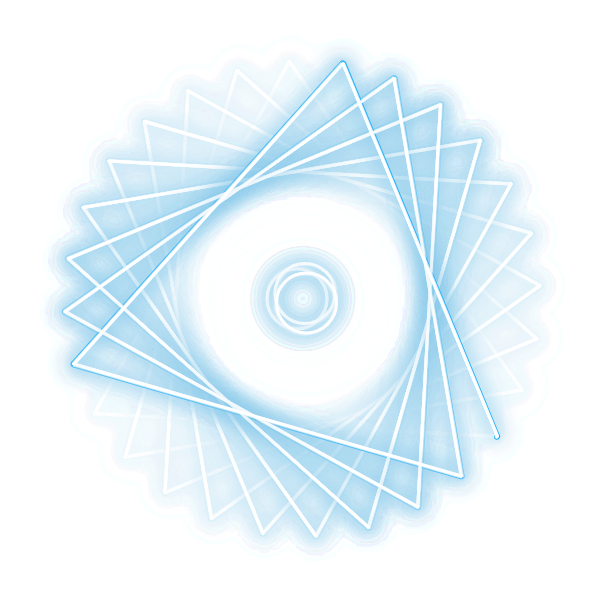
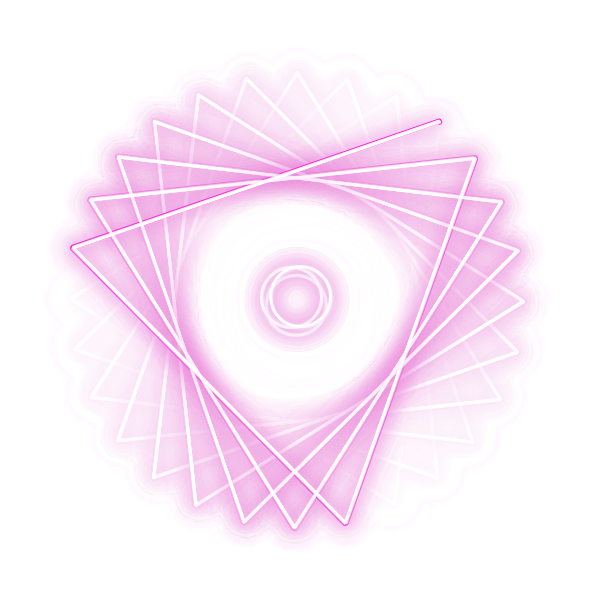
adding ui stuff

diff --git a/src/pot.js b/src/pot.js
@@ -1,4 +1,5 @@
 import * as recipe from './recipe.js';
+import * as ui from './ui.js'
 
 let canvas = document.getElementById('canvas');
 let ctx = canvas.getContext("2d");
@@ -74,16 +75,15 @@ function gameOver() {
 }
 
 function checkWin() {
-    let dLength = Math.abs(targetPotion.length / length);
-    let dRad = Math.abs(targetPotion.rad / rad);
-    let dCornerAngle = Math.abs(targetPotion.cornerAngle / cornerAngle);
+    let dLength = Math.abs(length / targetPotion.length);
+    let dRad = Math.abs(rad / targetPotion.rad);
+    let dCornerAngle = Math.abs(cornerAngle / targetPotion.cornerAngle);
 
-    // console.log(dLength, dRad, dCornerAngle);
+    fade = 1.1 - (dLength + dRad + dCornerAngle) / 3;
 
-    fade = 1.05 - 3 / (dLength + dRad + dCornerAngle);
-    // console.log(fade)
-
-    return (dLength + dRad + dCornerAngle < 20);
+    if (dLength + dRad + dCornerAngle > 2.9) {
+        ui.win();
+    }
 }
 
 export function restart() {
@@ -92,7 +92,7 @@ export function restart() {
     y = startY;
 
     angle = 0;
-    color = 200;
+    color = 310;
     fade = 0.07;
 
     length = 5;
@@ -112,6 +112,8 @@ export function restart() {
     flashColor("white");
 
     recipe.restart();
+
+    ui.restart();
 }
 
 function resetCam() {

diff --git a/dist/index.html b/dist/index.html
@@ -22,8 +22,13 @@
 <body>
     <div class="main">
         <canvas id="canvas" width="600" height="600"></canvas>
-        <div class="target">
-            <img src="../assets/target-potion.png">
+        <div id="ui">
+            <div id="target">
+
+            </div>
+            <div id="msg">
+
+            </div>
         </div>
         <div id="recipe" class="recipe">
 
@@ -60,6 +65,7 @@
         }
 
         .main {
+            position: relative;
             width: 100%;
             display: inline-flex;
             flex-direction: column;

diff --git a/src/style.css b/src/style.css
@@ -148,7 +148,7 @@ label {
 }
 
 .controls{
-  display: inline-block;
+  display: none;
   position: absolute;
   max-width: 300px;
   background: #202020;
@@ -265,4 +265,26 @@ label {
 }
 #recipe > .green {
   background: #23ef29;
+}
+
+#ui {
+  position: absolute;
+  left: 0;
+  width: 100%;
+  height: 100%;
+}
+
+#target {
+  position: absolute;
+  width: 50px;
+  height: 50px;
+  background-size: contain;
+  transition: width 200ms, height 200ms;
+  opacity: 0.5;
+}
+
+#target:hover{
+  width: 250px;
+  height: 250px;
+  opacity: 1;
 }

diff --git a/src/ui.js b/src/ui.js
@@ -1,0 +1,17 @@
+let msg = document.getElementById('msg');
+let ui = document.getElementById('ui');
+let canvas = document.getElementById('canvas');
+
+function init() {
+    ui.style.width = canvas.clientWidth + "px";
+    ui.style.height = canvas.clientHeight + "px";
+}
+export function win() {
+    msg.innerHTML = '<i class="fas fa-heart"></i>';
+}
+
+export function restart() {
+    msg.innerHTML = '';
+}
+
+window.addEventListener('load', init);

diff --git a/src/main.js b/src/main.js
@@ -1,5 +1,6 @@
 import * as pot from './pot.js';
 import * as recipe from './recipe.js';
+import * as target from './target.js';
 import './style.css';
 
 function setSegLength(e) {

diff --git a/src/target.js b/src/target.js
@@ -1,0 +1,4 @@
+import targetImg from '../assets/target-potion.png';
+let target = document.getElementById('target');
+
+target.style.backgroundImage = "url(" + targetImg + ")";
